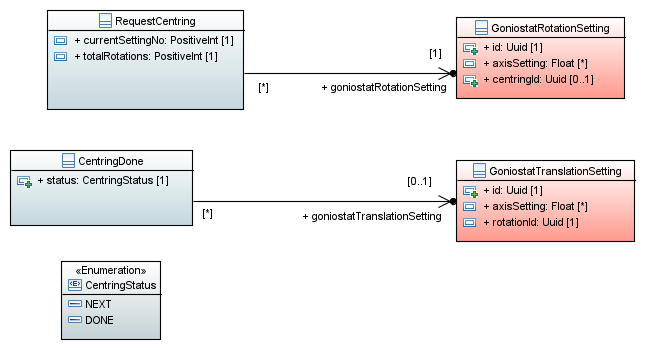
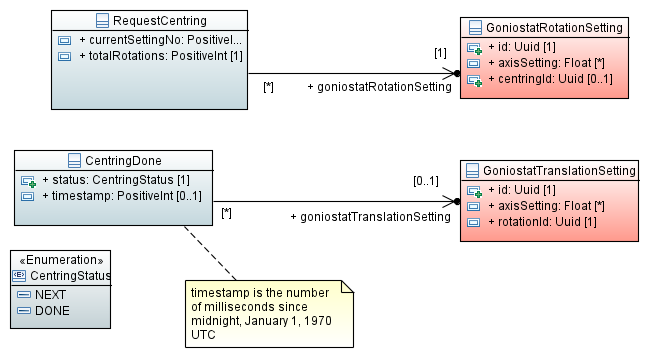
Allow each translational calibration centring to be timestamped

diff --git a/com.globalphasing.sdcp.abstract_beamline/src/co/gphl/beamline/v2_unstable/instrumentation/CentringDone.java b/com.globalphasing.sdcp.abstract_beamline/src/co/gphl/beamline/v2_unstable/instrumentation/CentringDone.java
@@ -19,6 +19,7 @@ package co.gphl.beamline.v2_unstable.instrumentation;
 public interface CentringDone {
 
     CentringStatus getStatus();
+    Long getTimestamp();
     GoniostatTranslationSetting getGoniostatTranslationSetting();
     
 }
